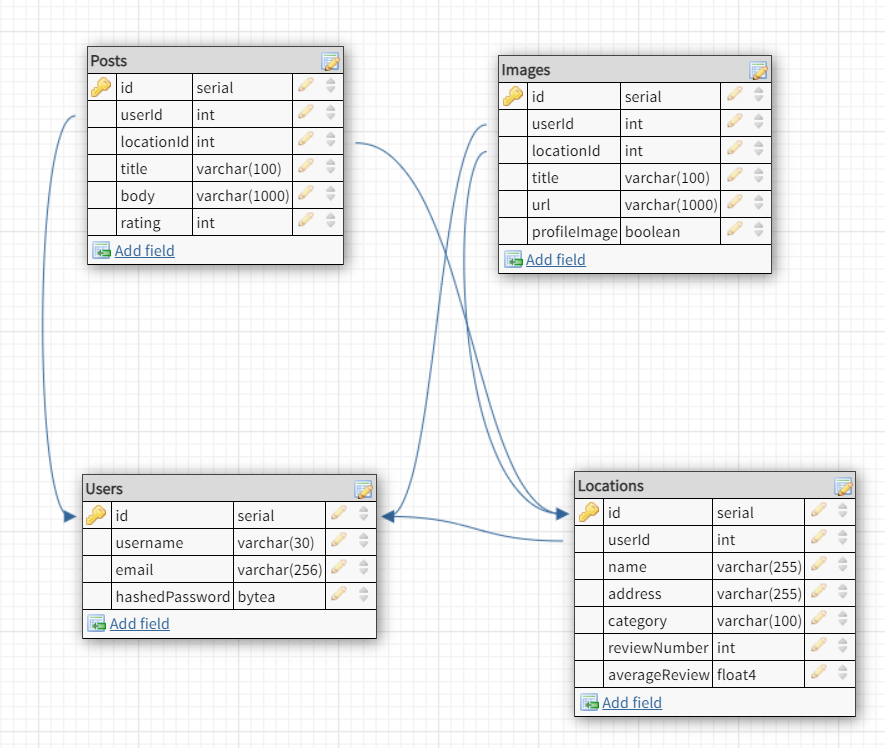
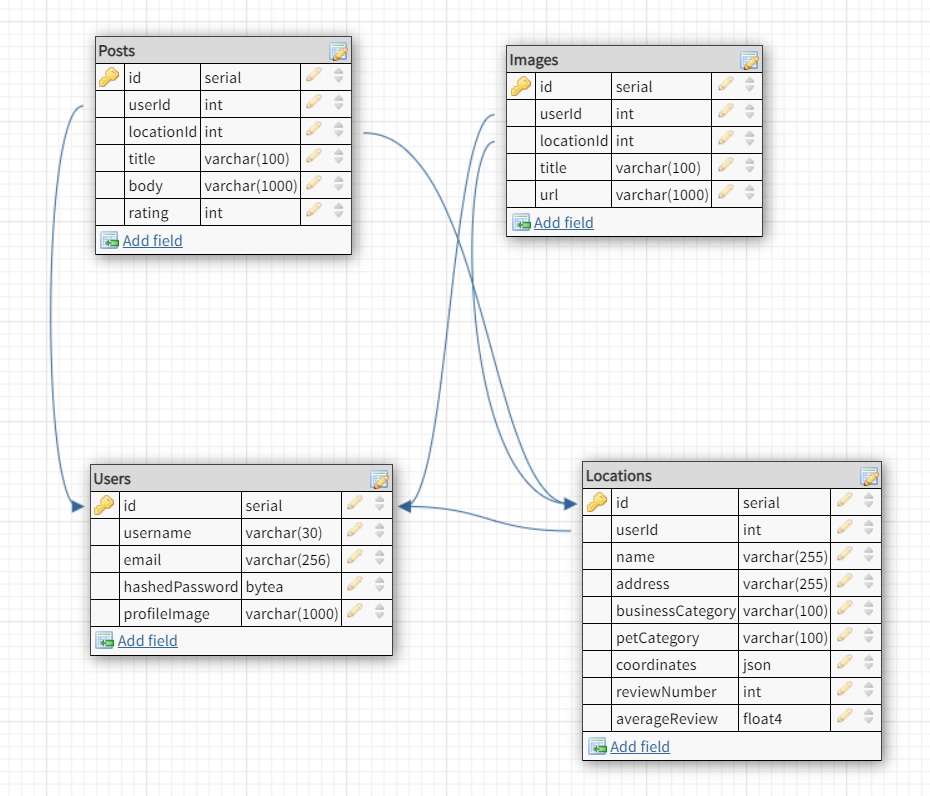
Updated db schema to better handle profile images and altered business page querying

Changed region(s): [[0.0305, 0.0307, 0.9763, 0.984], [0.061, 0.0307, 0.4576, 0.369]]

diff --git a/backend/db/seeders/20201228221546-images.js b/backend/db/seeders/20201228221546-images.js
@@ -7,22 +7,31 @@ module.exports = {
         userId: 1,
         locationId: 2,
         title: 'Cute doggo pic',
-        url: 'https://images.dog.ceo/breeds/retriever-flatcoated/n02099267_3948.jpg',
-        profileImage: false
+        url: 'https://images.dog.ceo/breeds/retriever-flatcoated/n02099267_3948.jpg'
       },
       {
         userId: 1,
         locationId: 3,
         title: 'Doggo be doggin!',
-        url: 'https://images.dog.ceo/breeds/terrier-australian/n02096294_4492.jpg',
-        profileImage: false
+        url: 'https://images.dog.ceo/breeds/terrier-australian/n02096294_4492.jpg'
       },
       {
         userId: 1,
         locationId: 1,
         title: 'Little pupper',
-        url: 'https://images.dog.ceo/breeds/shihtzu/n02086240_6131.jpg',
-        profileImage: false
+        url: 'https://images.dog.ceo/breeds/shihtzu/n02086240_6131.jpg'
+      },
+      {
+        userId: 2,
+        locationId: 2,
+        title: 'Little pupper',
+        url: 'https://images.dog.ceo/breeds/shihtzu/n02086240_6131.jpg'
+      },
+      {
+        userId: 2,
+        locationId: 2,
+        title: 'Little floofer',
+        url: 'https://images.dog.ceo/breeds/shihtzu/n02086240_6131.jpg'
       },
     ], {});
   },

diff --git a/backend/db/models/image.js b/backend/db/models/image.js
@@ -7,7 +7,7 @@ module.exports = (sequelize, DataTypes) => {
     },
     locationId: {
       type: DataTypes.INTEGER,
-      allowNull: true
+      allowNull: false
     },
     title: {
       type: DataTypes.STRING(100),
@@ -17,11 +17,6 @@ module.exports = (sequelize, DataTypes) => {
       type: DataTypes.STRING(1000),
       allowNull: false
     },
-    profileImage: {
-      type: DataTypes.BOOLEAN,
-      default: false,
-      allowNull: false
-    }
   }, {});
   Image.associate = function (models) {
     Image.belongsTo(models.User, { foreignKey: 'userId' });

diff --git a/backend/routes/api/business.js b/backend/routes/api/business.js
@@ -7,7 +7,7 @@ const { Op } = require('sequelize')
 router.get('/:id', asyncHandler(async (req, res) => {
     const id = Number(req.params.id)
     const business = await Location.findByPk(id, {
-        include: [Image, { model: Post, include: { model: User, include: { model: Image, where: { [Op.or]: [{locationId: id}, {profileImage: true}]} } } }]
+        include: [Image, { model: Post, include: { model: User, include: { model: Image, where: {locationId: id} } } }]
     });
     res.json({ id, business })
 }))

diff --git a/backend/db/migrations/20201030162614-create-user.js b/backend/db/migrations/20201030162614-create-user.js
@@ -22,6 +22,11 @@ module.exports = {
         type: Sequelize.STRING.BINARY,
         allowNull: false,
       },
+      profileImage: {
+        type: Sequelize.STRING(1000),
+        allowNull: true,
+        defaultValue: null,
+      },
       createdAt: {
         allowNull: false,
         type: Sequelize.DATE,

diff --git a/backend/db/migrations/20201228214525-create-image.js b/backend/db/migrations/20201228214525-create-image.js
@@ -26,11 +26,6 @@ module.exports = {
         allowNull: false,
         type: Sequelize.STRING(1000)
       },
-      profileImage: {
-        allowNull: false,
-        default: false,
-        type: Sequelize.BOOLEAN
-      },
       createdAt: {
         allowNull: false,
         type: Sequelize.DATE,

diff --git a/backend/db/models/user.js b/backend/db/models/user.js
@@ -31,6 +31,10 @@ module.exports = (sequelize, DataTypes) => {
         validate: {
           len: [60, 60]
         }
+      },
+      profileImage: {
+        type: DataTypes.STRING(1000),
+        allowNull: true,
       }
     },
     {
